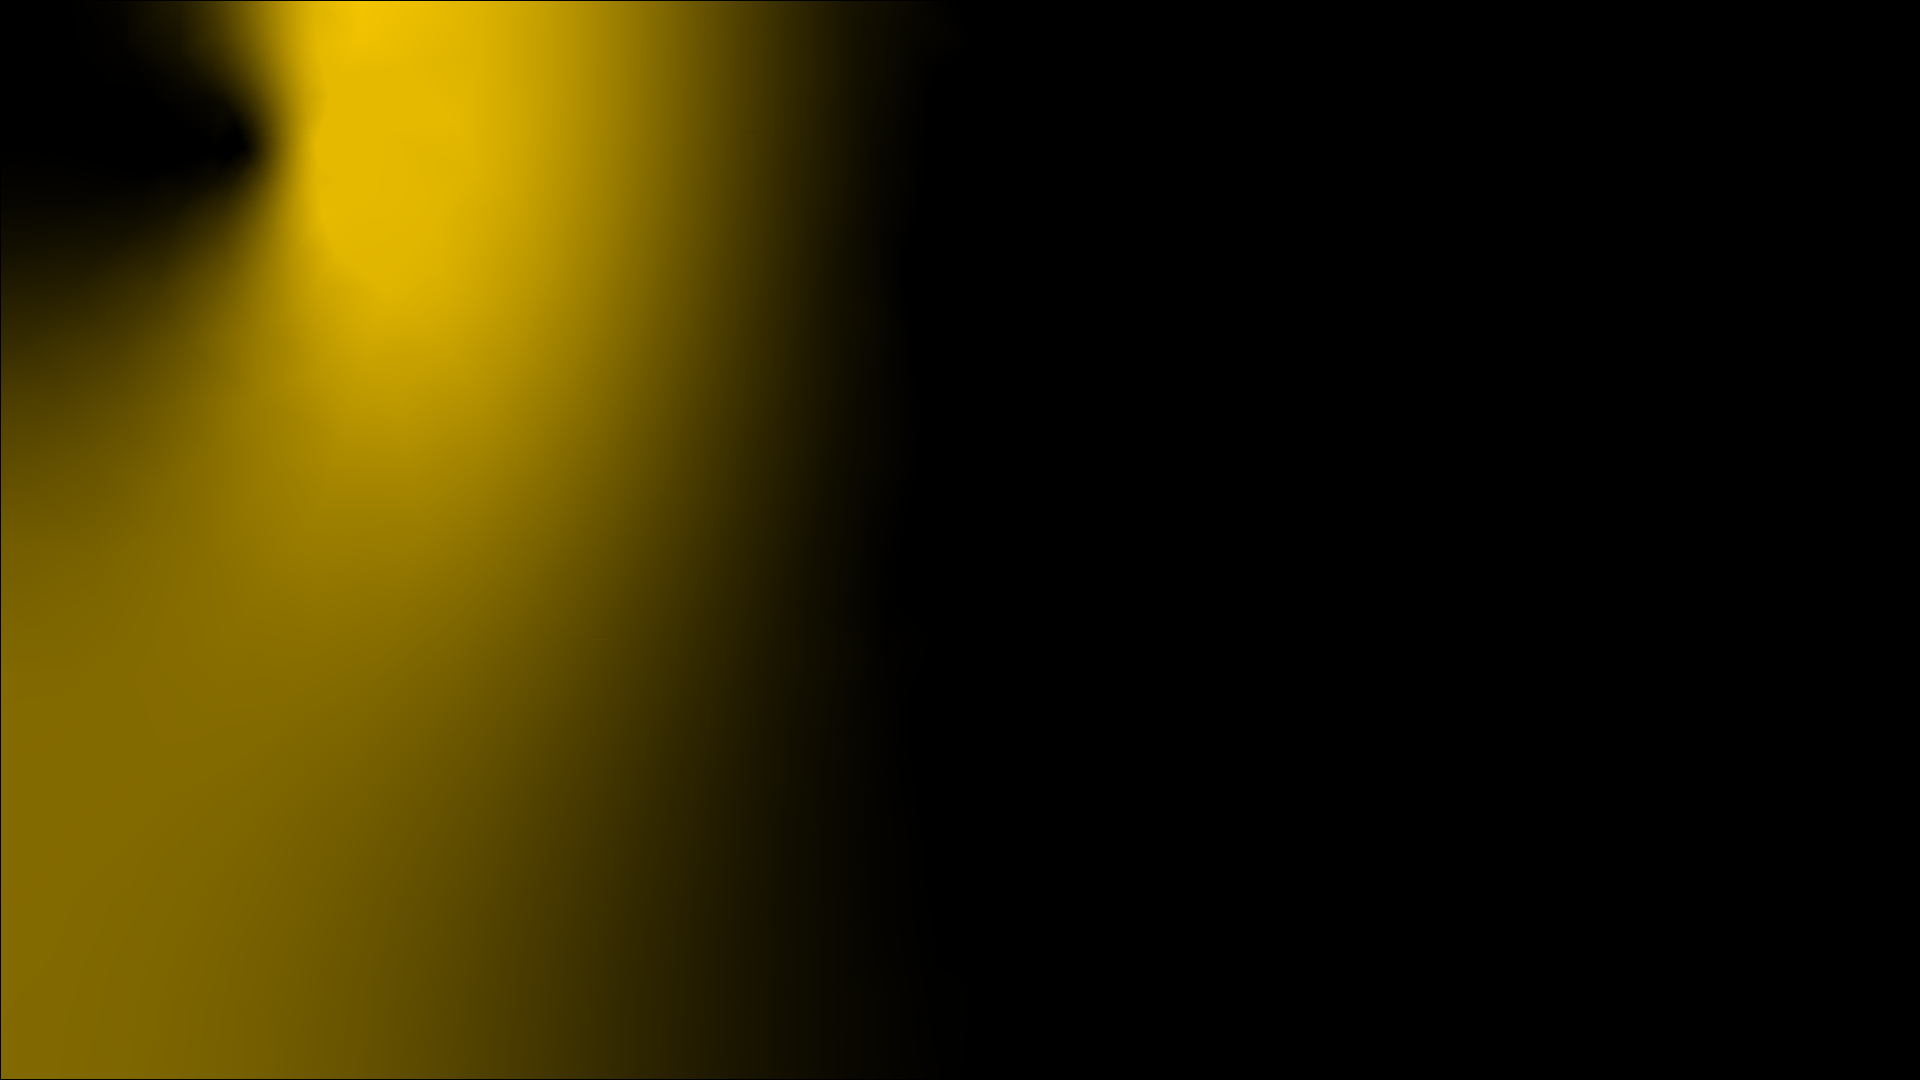
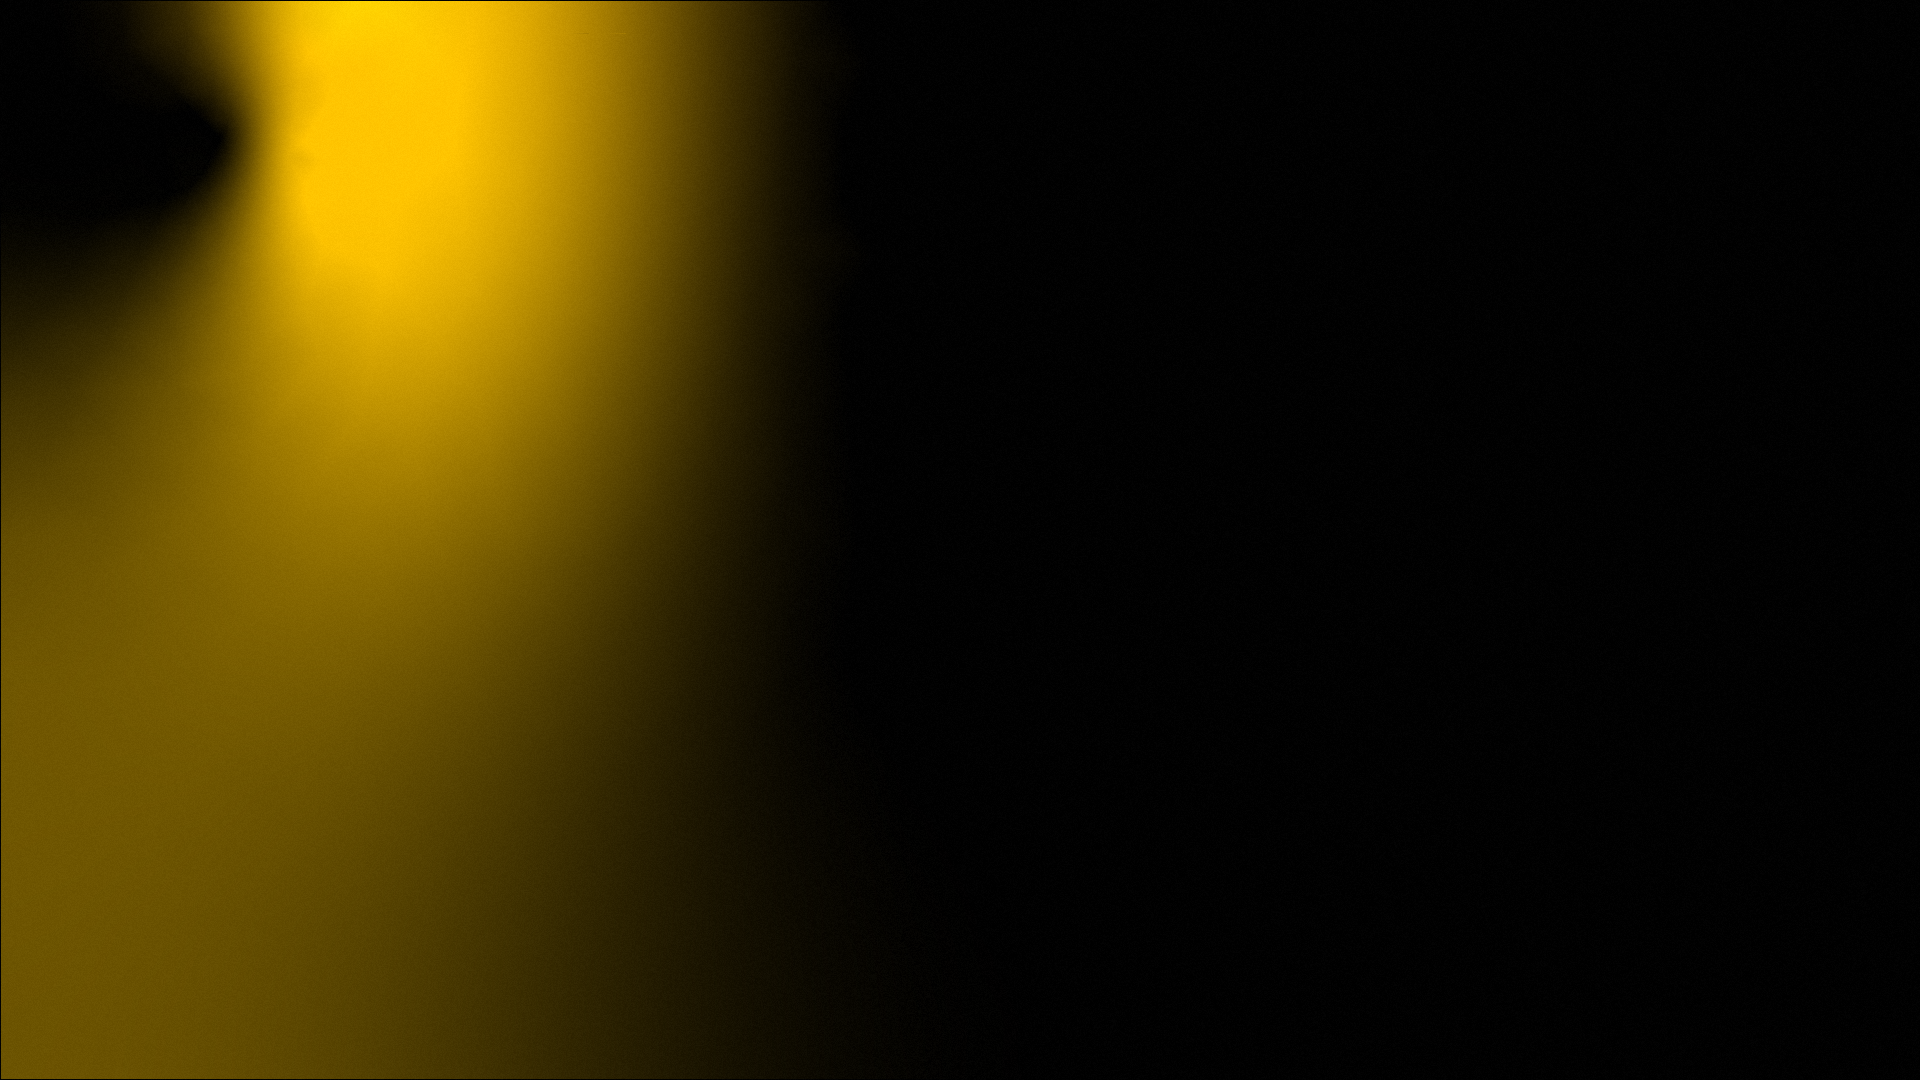
Divers

Changed region(s): [[0.0938, 0.0, 0.2812, 0.3056], [0.375, 0.0, 0.4375, 0.3667]]

diff --git a/app/pages/nos-projets/index.vue b/app/pages/nos-projets/index.vue
@@ -52,20 +52,25 @@ const preloadingCovers = new Set<string>(); // prevent duplicate preload work cl
 // Filters state & logic
 // ----------------------------
 
-// Single selection (XOR). Null means "Tous nos projets".
+// Single selection. Initialize with first visible tag
 const selectedTagId = ref<string | null>(null);
-const isAllSelected = computed(() => !selectedTagId.value);
 
-// Apply filtering:
-// - if no filter selected, return all
-// - otherwise project must include at least one selected tag
+const initializeSelectedTag = () => {
+  if (visibleTags.value?.length) {
+    selectedTagId.value = visibleTags.value[0].id;
+  }
+};
+
+// Initialize on mount or when tags load
+watch(visibleTags, initializeSelectedTag, { immediate: true });
+
+// Apply filtering: project must include the selected tag
 const filteredProjects = computed(() => {
   const items = nosProjets.value || [];
   const activeTagId = selectedTagId.value;
 
   return items.filter((p: any) => {
     const tags: string[] = p?.tagIDs || [];
-    if (!activeTagId) return true;
     return tags.includes(activeTagId);
   });
 });
@@ -75,10 +80,6 @@ function handleSelectTag(tagId: string) {
   if (tagId && tagId !== selectedTagId.value) {
     selectedTagId.value = tagId;
   }
-}
-
-function handleSelectAll() {
-  selectedTagId.value = null;
 }
 
 function updateCoverHeight(src: string, height?: number | null) {
@@ -173,16 +174,6 @@ function onImgLoad(src: string, e: Event) {
       <div class="filterGroup container">
         <span class="filterTitle h3 sr-only">Filtres</span>
         <ul role="group" aria-label="Filtres du contenu" class="unstyled">
-          <li>
-            <Tag
-              id="all"
-              title="Tous nos projets"
-              class="filterable"
-              :class="{ selected: isAllSelected }"
-              :no-hashtag="true"
-              @select="handleSelectAll"
-            />
-          </li>
           <li v-for="tag in visibleTags" :data-format="tag.type">
             <Tag
               :tag="tag"

diff --git a/app/components/Tag.vue b/app/components/Tag.vue
@@ -12,7 +12,6 @@ const props = defineProps<{
   isInactive?: boolean;
   hidden?: boolean;
   associatedIcon?: string;
-  noHashtag?: boolean;
 }>();
 
 const emit = defineEmits<{
@@ -38,10 +37,8 @@ const resolvedTitle = computed(() => resolvedTag.value.title || "nos projets");
     :disableArrow="true"
     :class="{ inactive: resolvedTag.isInactive }"
   >
-    <span class="title"
-      ><template v-if="!noHashtag">#</template>{{ resolvedTitle }}</span
-    >
-    <template v-if="!resolvedTag.isInactive">
+    <span class="title">{{ resolvedTitle }}</span>
+    <!-- <template v-if="!resolvedTag.isInactive">
       <svg
         width="10"
         height="10"
@@ -54,7 +51,7 @@ const resolvedTitle = computed(() => resolvedTag.value.title || "nos projets");
           fill="white"
         />
       </svg>
-    </template>
+    </template> -->
   </Button>
 </template>
 
@@ -71,9 +68,9 @@ const resolvedTitle = computed(() => resolvedTag.value.title || "nos projets");
   align-items: center;
   justify-content: center;
 
-  span.title {
-    margin-right: 7px;
-  }
+  border-radius: 999px;
+  padding: 1rem 2.5rem;
+  font-size: 1.4rem;
 
   svg {
     width: 10px;

diff --git a/app/components/contactCTA.vue b/app/components/contactCTA.vue
@@ -8,7 +8,8 @@
 <style lang="scss" scoped>
 .contactCTA {
   display: flex;
-  justify-content: space-around;
+  justify-content: center;
+  align-items: center;
   margin-bottom: 1rem;
   margin-block: 110px;
   flex-wrap: wrap;

diff --git a/app/assets/scss/main.scss b/app/assets/scss/main.scss
@@ -40,7 +40,7 @@ body {
     left: 0;
     width: 100%;
     height: 100%;
-    background-image: url("@/assets/images/background2.png");
+    background-image: url("@/assets/images/background.png");
     background-size: cover;
     background-repeat: no-repeat;
     z-index: -1;